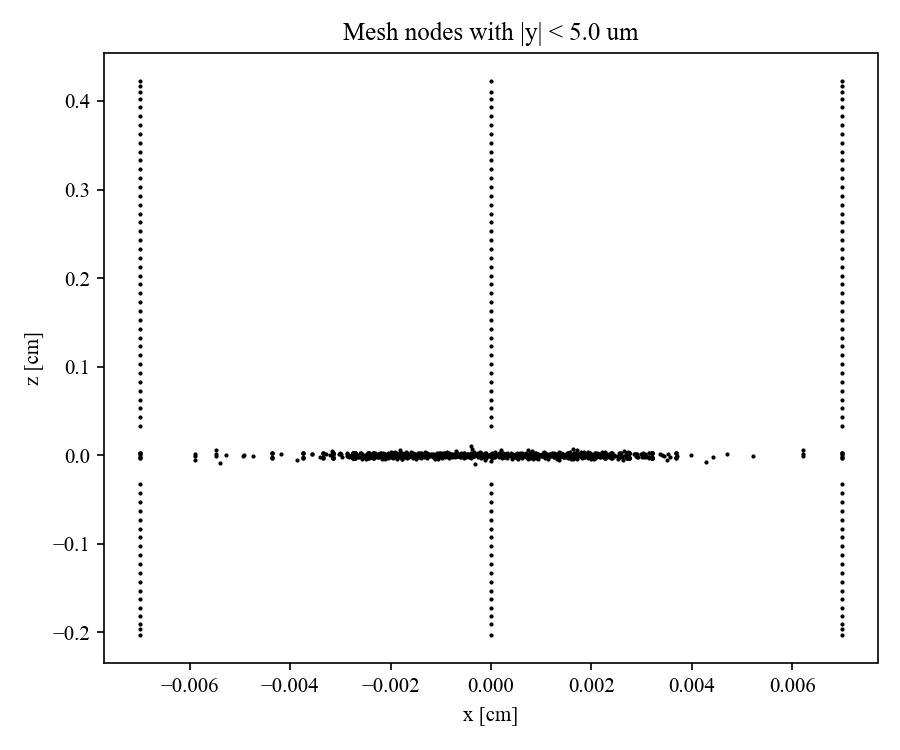
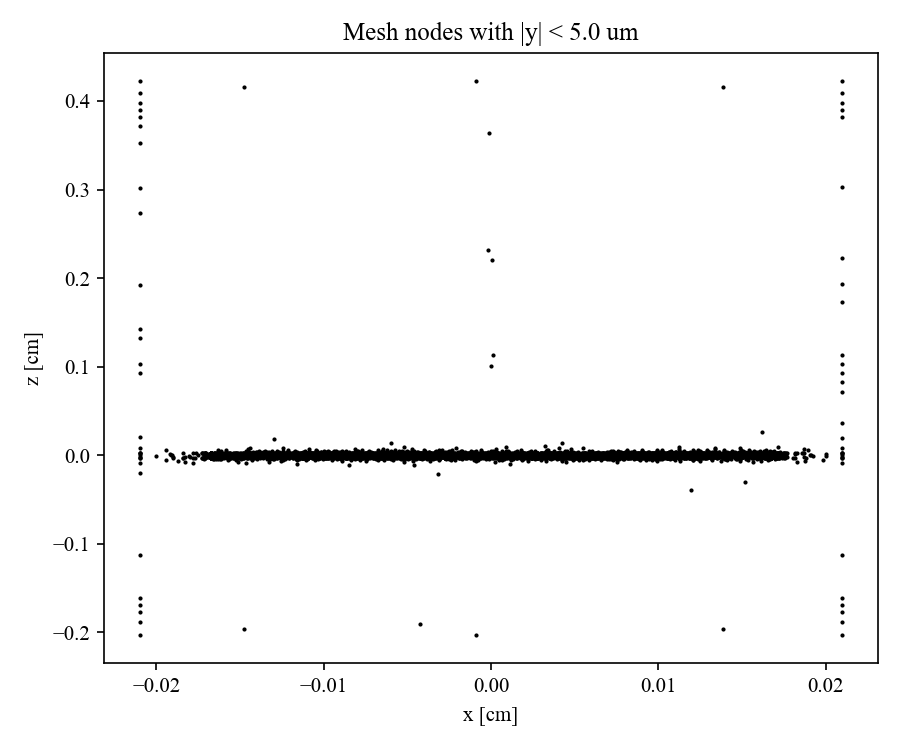
Quantify GEM2/GEM3's local avalanche gain and test the 50um GEM standalone
Prompted by the full-stack cross-section image looking like "no
amplification at GEM2/GEM3" -- measure the local multiplication ratio
(electrons born inside a GEM's z-band / electrons that genuinely entered
its top) for all 3 stages on the 150-event triple_gem_field_n5 run: GEM1
20.4x, GEM2 4.9x, GEM3 4.4x. Real local amplification does happen at every
stage; it's just invisible in absolute terms because each stage's entering
population is already tiny (151 -> 160 -> 39 across 150 events).

Generalize analyze_single_gem_plane_crossings.py to take an optional
gem_type arg (100 default, or 50) instead of hardcoding GEM_100UM, and run
a standalone 50um-GEM test (GEM2/GEM3's actual type and operating voltage,
305V, no 1.5x rule) with build_single_gem_field_mesh.py's now-tiled
defaults. Result: extraction efficiency is actually higher than the 100um
GEM standalone (51.9% vs 43.1%), while local gain is lower (8.4x vs
21.6x) -- consistent with the r_birth finding that more avalanche
generations means more chances for a secondary to land off-axis and hit
the wall. Conclusion: GEM2/GEM3's own hole geometry/voltage works fine in
isolation; the full-stack loss is the transport/collection bottleneck
between stages compounding twice, not a per-GEM defect.

diff --git a/geometry/analyze_single_gem_plane_crossings.py b/geometry/analyze_single_gem_plane_crossings.py
@@ -18,7 +18,10 @@ gap at all", cross-checked against the r_birth-binned extraction rate
 already established for the full stack.
 
 Usage:
-    python3 analyze_single_gem_plane_crossings.py <avalanche.root>
+    python3 analyze_single_gem_plane_crossings.py <avalanche.root> [gem_type: 100|50]
+    gem_type selects the GEM foil thickness whose z-bounds to use (default
+    100, i.e. GEM1's type); pass 50 when analyzing a GEM2/GEM3-type
+    (single_gem_field, GEM_50UM) standalone run.
 """
 
 import sys
@@ -27,13 +30,20 @@ import numpy as np
 import uproot
 
 from analyze_plane_crossings import _crossed, _interpolated_xy_at_plane, _status_name
-from gem_params import GEM_100UM
+from gem_params import GEM_50UM, GEM_100UM
 
 # Single-GEM foil z-boundaries (see single_gem_field_model.py:
-# z_gem_top/z_gem_bottom, GEM centered at z=0).
-_HALF_T_DIEL_CM = GEM_100UM.dielectric_thickness_cm / 2.0
-Z_GEM_TOP = _HALF_T_DIEL_CM + GEM_100UM.copper_thickness_cm
-Z_GEM_BOTTOM = -Z_GEM_TOP
+# z_gem_top/z_gem_bottom, GEM centered at z=0). Which GEM type's thickness
+# to use is a CLI arg (default 100um, i.e. GEM1's type) since this script
+# is also used for the 50um GEM2/GEM3 type -- see docs/debugging_notes.md.
+_GEM_PARAMS_BY_TYPE = {"100": GEM_100UM, "50": GEM_50UM}
+
+
+def _gem_z_bounds(gem_type: str) -> tuple[float, float]:
+    params = _GEM_PARAMS_BY_TYPE[gem_type]
+    half_t_diel_cm = params.dielectric_thickness_cm / 2.0
+    z_top = half_t_diel_cm + params.copper_thickness_cm
+    return z_top, -z_top
 
 # Transfer-gap diagnostic planes: fractions of the way from GEM bottom to
 # the sensor's transfer-side boundary (SingleGemTestConfig.transfer_gap_cm
@@ -44,23 +54,25 @@ _TRANSFER_GAP_CM = 0.20
 _TRANSFER_FRACTIONS = [0.10, 0.25, 0.50, 0.75, 0.90]
 
 
-def _birth_region(z_val: float) -> str:
-    if z_val > Z_GEM_TOP:
+def _birth_region(z_val: float, z_gem_top: float, z_gem_bottom: float) -> str:
+    if z_val > z_gem_top:
         return "drift (above GEM)"
-    if z_val >= Z_GEM_BOTTOM:
+    if z_val >= z_gem_bottom:
         return "GEM"
     return "transfer gap"
 
 
 def main() -> None:
     if len(sys.argv) < 2:
-        print("Usage: analyze_single_gem_plane_crossings.py <avalanche.root>")
+        print("Usage: analyze_single_gem_plane_crossings.py <avalanche.root> [gem_type: 100|50]")
         sys.exit(1)
     root_path = sys.argv[1]
+    gem_type = sys.argv[2] if len(sys.argv) > 2 else "100"
+    z_gem_top, z_gem_bottom = _gem_z_bounds(gem_type)
 
-    planes = [("GEM top", Z_GEM_TOP), ("GEM bottom", Z_GEM_BOTTOM)]
+    planes = [("GEM top", z_gem_top), ("GEM bottom", z_gem_bottom)]
     for frac in _TRANSFER_FRACTIONS:
-        planes.append((f"transfer {int(frac * 100)}%", Z_GEM_BOTTOM - frac * _TRANSFER_GAP_CM))
+        planes.append((f"transfer {int(frac * 100)}%", z_gem_bottom - frac * _TRANSFER_GAP_CM))
 
     with uproot.open(root_path) as f:
         tree = f["Trajectories"]
@@ -83,7 +95,7 @@ def main() -> None:
     for ev, tr in keys:
         m = (event == ev) & (track == tr)
         track_masks[(ev, tr)] = m
-        label = _birth_region(z[m][0])
+        label = _birth_region(z[m][0], z_gem_top, z_gem_bottom)
         birth_counts[label] = birth_counts.get(label, 0) + 1
     print("Birth region (first recorded point of each track):")
     for label in ("drift (above GEM)", "GEM", "transfer gap"):
@@ -132,7 +144,7 @@ def main() -> None:
             last = idx[-1]
             st = int(status[last])
             z_last = z[last]
-            region = _birth_region(z_last)
+            region = _birth_region(z_last, z_gem_top, z_gem_bottom)
             fate = f"{_status_name(st)} in {region}"
             fate_counts[fate] = fate_counts.get(fate, 0) + 1
         for fate, c in sorted(fate_counts.items(), key=lambda kv: -kv[1]):
